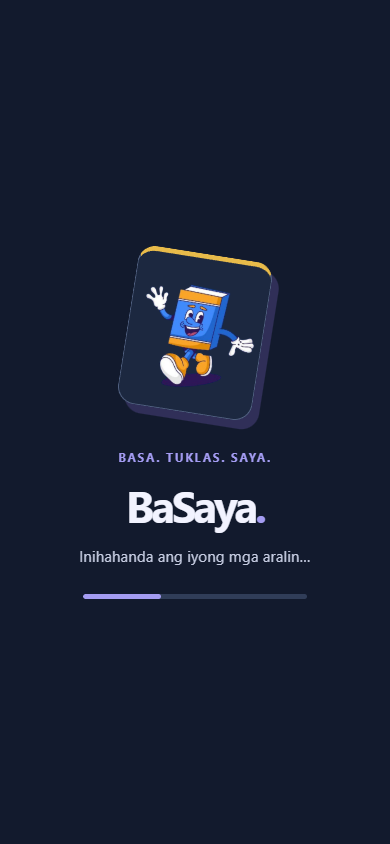
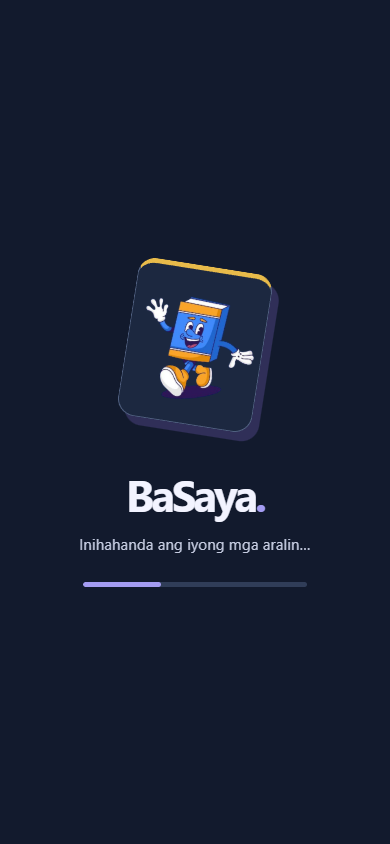
Fix cached theme startup and redesign account verification loader

Changed region(s): [[0.1846, 0.2773, 0.8, 0.7085], [0.3077, 0.3697, 0.3385, 0.4929]]

diff --git a/css/pages/account-loading.css b/css/pages/account-loading.css
@@ -1,0 +1,44 @@
+/* Account verification only; the existing authentication lifecycle owns visibility. */
+.login-editorial > .account-loading {
+  --account-bg: #fff9f0;
+  --account-surface: #fffefa;
+  --account-text: #242b52;
+  --account-muted: #515b77;
+  --account-primary: #5b4cf4;
+  --account-soft: #eeebff;
+  --account-border: #e1e1ed;
+  --account-gold: #ffd56a;
+  background: var(--account-bg);
+  color: var(--account-text);
+  justify-items: center;
+  padding: clamp(1rem, 4vw, 3rem);
+}
+:root[data-theme="dark"] .login-editorial > .account-loading {
+  --account-bg: #121c30;
+  --account-surface: #1c2840;
+  --account-text: #f2f3ff;
+  --account-muted: #c6cce1;
+  --account-primary: #a49cf2;
+  --account-soft: #302f58;
+  --account-border: #35415c;
+}
+.account-loading__card { display: grid; grid-template-columns: 13rem minmax(0, 1fr); align-items: center; gap: 3rem; width: min(100%, 48rem); padding: clamp(1.5rem, 5vw, 3.5rem); border: 1px solid var(--account-border); border-radius: 28px; background: var(--account-surface); box-shadow: 0 18px 60px -35px #20285a50; text-align: left; }
+.account-loading__art { position: relative; display: grid; place-items: center; width: 13rem; height: 14rem; }
+.account-loading__page { position: absolute; inset: 1rem 1.25rem; border: 1px solid var(--account-border); border-top: 6px solid var(--account-gold); border-radius: 20px; background: var(--account-soft); transform: rotate(-8deg); }
+.account-loading__art img { position: relative; width: 10rem; height: 10rem; object-fit: contain; }
+.account-loading__lock { position: absolute; right: .5rem; bottom: 1rem; display: grid; place-items: center; width: 3.5rem; height: 3.5rem; border: 5px solid var(--account-surface); border-radius: 18px; background: var(--account-gold); color: #242b52; transform: rotate(8deg); }
+.account-loading__lock svg { width: 1.6rem; height: 1.6rem; }
+.account-loading__brand { font-family: var(--font-display); font-size: 1rem; font-weight: 700; color: var(--account-primary); }
+.account-loading__copy h1 { margin: .75rem 0 1rem; color: var(--account-text); font-family: var(--font-display); font-size: clamp(1.75rem, 4vw, 2.5rem); line-height: 1.25; letter-spacing: -.05em; }
+.account-loading .account-loading__copy p { margin: 0; color: var(--account-muted); font-size: .9rem; line-height: 1.8; }
+.account-loading__rail { width: min(100%, 12rem); height: 5px; margin-top: 1.75rem; overflow: hidden; border-radius: 5px; background: var(--account-soft); }
+.account-loading__rail span { display: block; width: 35%; height: 100%; border-radius: inherit; background: var(--account-primary); animation: account-scan 1.8s ease-in-out infinite alternate; }
+@keyframes account-scan { from { transform: translateX(0); } to { transform: translateX(185%); } }
+@media (max-width: 600px) {
+  .account-loading__card { grid-template-columns: minmax(0, 1fr); justify-items: center; gap: 1.25rem; padding: 2rem 1.5rem; text-align: center; }
+  .account-loading__art { width: 11rem; height: 12rem; }
+  .account-loading__art img { width: 9rem; height: 9rem; }
+  .account-loading__rail { margin-inline: auto; }
+}
+@media (max-height: 480px) and (min-width: 601px) { .account-loading__card { padding: 1.5rem 2rem; gap: 2rem; } .account-loading__art { height: 12rem; } }
+@media (prefers-reduced-motion: reduce) { .account-loading__rail span { animation: none; transform: translateX(90%); } }

diff --git a/index.html b/index.html
@@ -48,11 +48,23 @@
     <link rel="stylesheet" href="css/pages/forgot-password.css" />
     <link rel="stylesheet" href="css/pages/login-editorial.css?v=20261109-3" />
     <link rel="stylesheet" href="css/components/site-info.css" />
+    <link rel="stylesheet" href="css/pages/account-loading.css" />
   </head>
   <body class="login-editorial">
-    <div id="loading-screen" class="loading-screen loading-screen--dark">
-      <div class="loader-punch"><span></span><span></span><span></span></div>
-      <p>Checking your account…</p>
+    <div id="loading-screen" class="loading-screen account-loading" role="status" aria-live="polite" aria-labelledby="account-loading-title">
+      <div class="account-loading__card">
+        <div class="account-loading__art" aria-hidden="true">
+          <span class="account-loading__page"></span>
+          <img src="img/logo.png" alt="" width="160" height="160" />
+          <span class="account-loading__lock"><svg viewBox="0 0 24 24" fill="none" stroke="currentColor" stroke-width="1.8"><rect x="5" y="10" width="14" height="11" rx="3"/><path d="M8 10V7a4 4 0 0 1 8 0v3m-4 4v3"/></svg></span>
+        </div>
+        <div class="account-loading__copy">
+          <span class="account-loading__brand">BaSaya</span>
+          <h1 id="account-loading-title">Checking your account<span aria-hidden="true">…</span></h1>
+          <p>Please wait while we get things ready.</p>
+          <div class="account-loading__rail" aria-hidden="true"><span></span></div>
+        </div>
+      </div>
     </div>
 
     <main id="login-view" class="auth-layout" hidden>

diff --git a/js/theme.js b/js/theme.js
@@ -4,6 +4,9 @@
 // choice in this browser. The <head> of each page sets the theme before anything is
 // drawn (no flash); this file handles the button, the animation and system changes.
 
+import { syncThemeButtons } from "./theme-buttons.js";
+export { syncThemeButtons } from "./theme-buttons.js";
+
 const STORAGE_KEY = "basaya-theme";
 const root = document.documentElement;
 const systemDark = window.matchMedia("(prefers-color-scheme: dark)");
@@ -18,18 +21,6 @@ function savedTheme() {
 }
 
 const currentTheme = () => (root.dataset.theme === "dark" ? "dark" : "light");
-
-export function syncThemeButtons() {
-  const next = currentTheme() === "dark" ? "light" : "dark";
-  document.querySelectorAll("[data-theme-toggle]").forEach((button) => {
-    button.setAttribute("aria-label", `Switch to ${next} mode`);
-    button.title = `Switch to ${next} mode`;
-    button.setAttribute("aria-pressed", String(currentTheme() === "dark"));
-  });
-  document.querySelectorAll("[data-theme-choice]").forEach((button) => {
-    button.setAttribute("aria-pressed", String(button.dataset.themeChoice === currentTheme()));
-  });
-}
 
 function applyTheme(theme, { save = false } = {}) {
   root.dataset.theme = theme;

diff --git a/service-worker.js b/service-worker.js
@@ -54,7 +54,22 @@ self.addEventListener("fetch", (event) => {
       return (await cache.match(fallback)) || Response.error();
     }));
   } else if (shell.has(clean)) {
-    event.respondWith(caches.open(CACHE).then(async (cache) => (await cache.match(clean)) || fetch(request)));
+    // Fresh HTML must not link against an older cached module's exports.
+    // Revalidate public shell assets online; retain the installed copy offline.
+    event.respondWith(caches.open(CACHE).then(async (cache) => {
+      try {
+        const response = await fetch(request, { cache: "no-cache" });
+        if (response.ok) {
+          await cache.put(clean, response.clone());
+          return response;
+        }
+        return (await cache.match(clean)) || response;
+      } catch (error) {
+        const cached = await cache.match(clean);
+        if (cached) return cached;
+        throw error;
+      }
+    }));
   } else if (url.origin === "https://www.gstatic.com" && url.pathname.startsWith("/firebasejs/")) {
     event.respondWith(caches.open(SDK_CACHE).then(async (cache) => (await cache.match(request)) || fetch(request)));
   }

diff --git a/offline-shell.js b/offline-shell.js
@@ -1,5 +1,5 @@
 // Generated by node tools/build-offline-shell.mjs
-self.BASAYA_VERSION = "4b3280fd0254";
+self.BASAYA_VERSION = "0c730404206e";
 self.BASAYA_SHELL = [
   "css/base/animations.css",
   "css/base/reset.css",
@@ -35,6 +35,7 @@ self.BASAYA_SHELL = [
   "css/layout/teacher-sidebar.css",
   "css/layout/workspace.css",
   "css/pages/account-editorial.css",
+  "css/pages/account-loading.css",
   "css/pages/account-settings.css",
   "css/pages/add-lesson.css",
   "css/pages/admin-editorial.css",
@@ -130,6 +131,7 @@ self.BASAYA_SHELL = [
   "js/syllables.js",
   "js/teacher-logout.js",
   "js/teacherTitle.js",
+  "js/theme-buttons.js",
   "js/theme.js",
   "js/tts.js",
   "manifest.webmanifest",

diff --git a/js/theme-buttons.js b/js/theme-buttons.js
@@ -1,0 +1,13 @@
+// Shared by dynamically rendered account controls and the theme controller.
+export function syncThemeButtons() {
+  const dark = document.documentElement.dataset.theme === "dark";
+  const next = dark ? "light" : "dark";
+  document.querySelectorAll("[data-theme-toggle]").forEach((button) => {
+    button.setAttribute("aria-label", `Switch to ${next} mode`);
+    button.title = `Switch to ${next} mode`;
+    button.setAttribute("aria-pressed", String(dark));
+  });
+  document.querySelectorAll("[data-theme-choice]").forEach((button) => {
+    button.setAttribute("aria-pressed", String(button.dataset.themeChoice === (dark ? "dark" : "light")));
+  });
+}

diff --git a/admin/views/account.js b/admin/views/account.js
@@ -8,7 +8,7 @@ import { $, escapeHtml, page, toast } from "../../js/helpers.js";
 import { fieldError, focusFirstError } from "../../js/field-errors.js";
 import { requestAdminPasswordChange, sendResetLink } from "../../js/api.js";
 import { MIN_LENGTH, passwordProblem, passwordRulesMarkup, watchPasswordRules } from "../../js/password-rules.js";
-import { syncThemeButtons } from '../../js/theme.js';
+import { syncThemeButtons } from '../../js/theme-buttons.js';
 
 // #/settings: the admin's own password. Unlike a teacher's, a new admin password
 // doesn't apply right away: notify-api emails the admin an Approve link first

diff --git a/js/admin-design.js b/js/admin-design.js
@@ -1,5 +1,5 @@
 import { attachFloatingTooltips } from './floatingTooltip.js';
-import { syncThemeButtons } from './theme.js';
+import { syncThemeButtons } from './theme-buttons.js';
 
 // Reuse the authenticated profile; this module only presents existing controls.
 const app = document.getElementById('app-view');

diff --git a/teacher/views/accountSettings.js b/teacher/views/accountSettings.js
@@ -1,4 +1,4 @@
-import { syncThemeButtons } from "../../js/theme.js";
+import { syncThemeButtons } from "../../js/theme-buttons.js";
 import {
   EmailAuthProvider,
   reauthenticateWithCredential,
